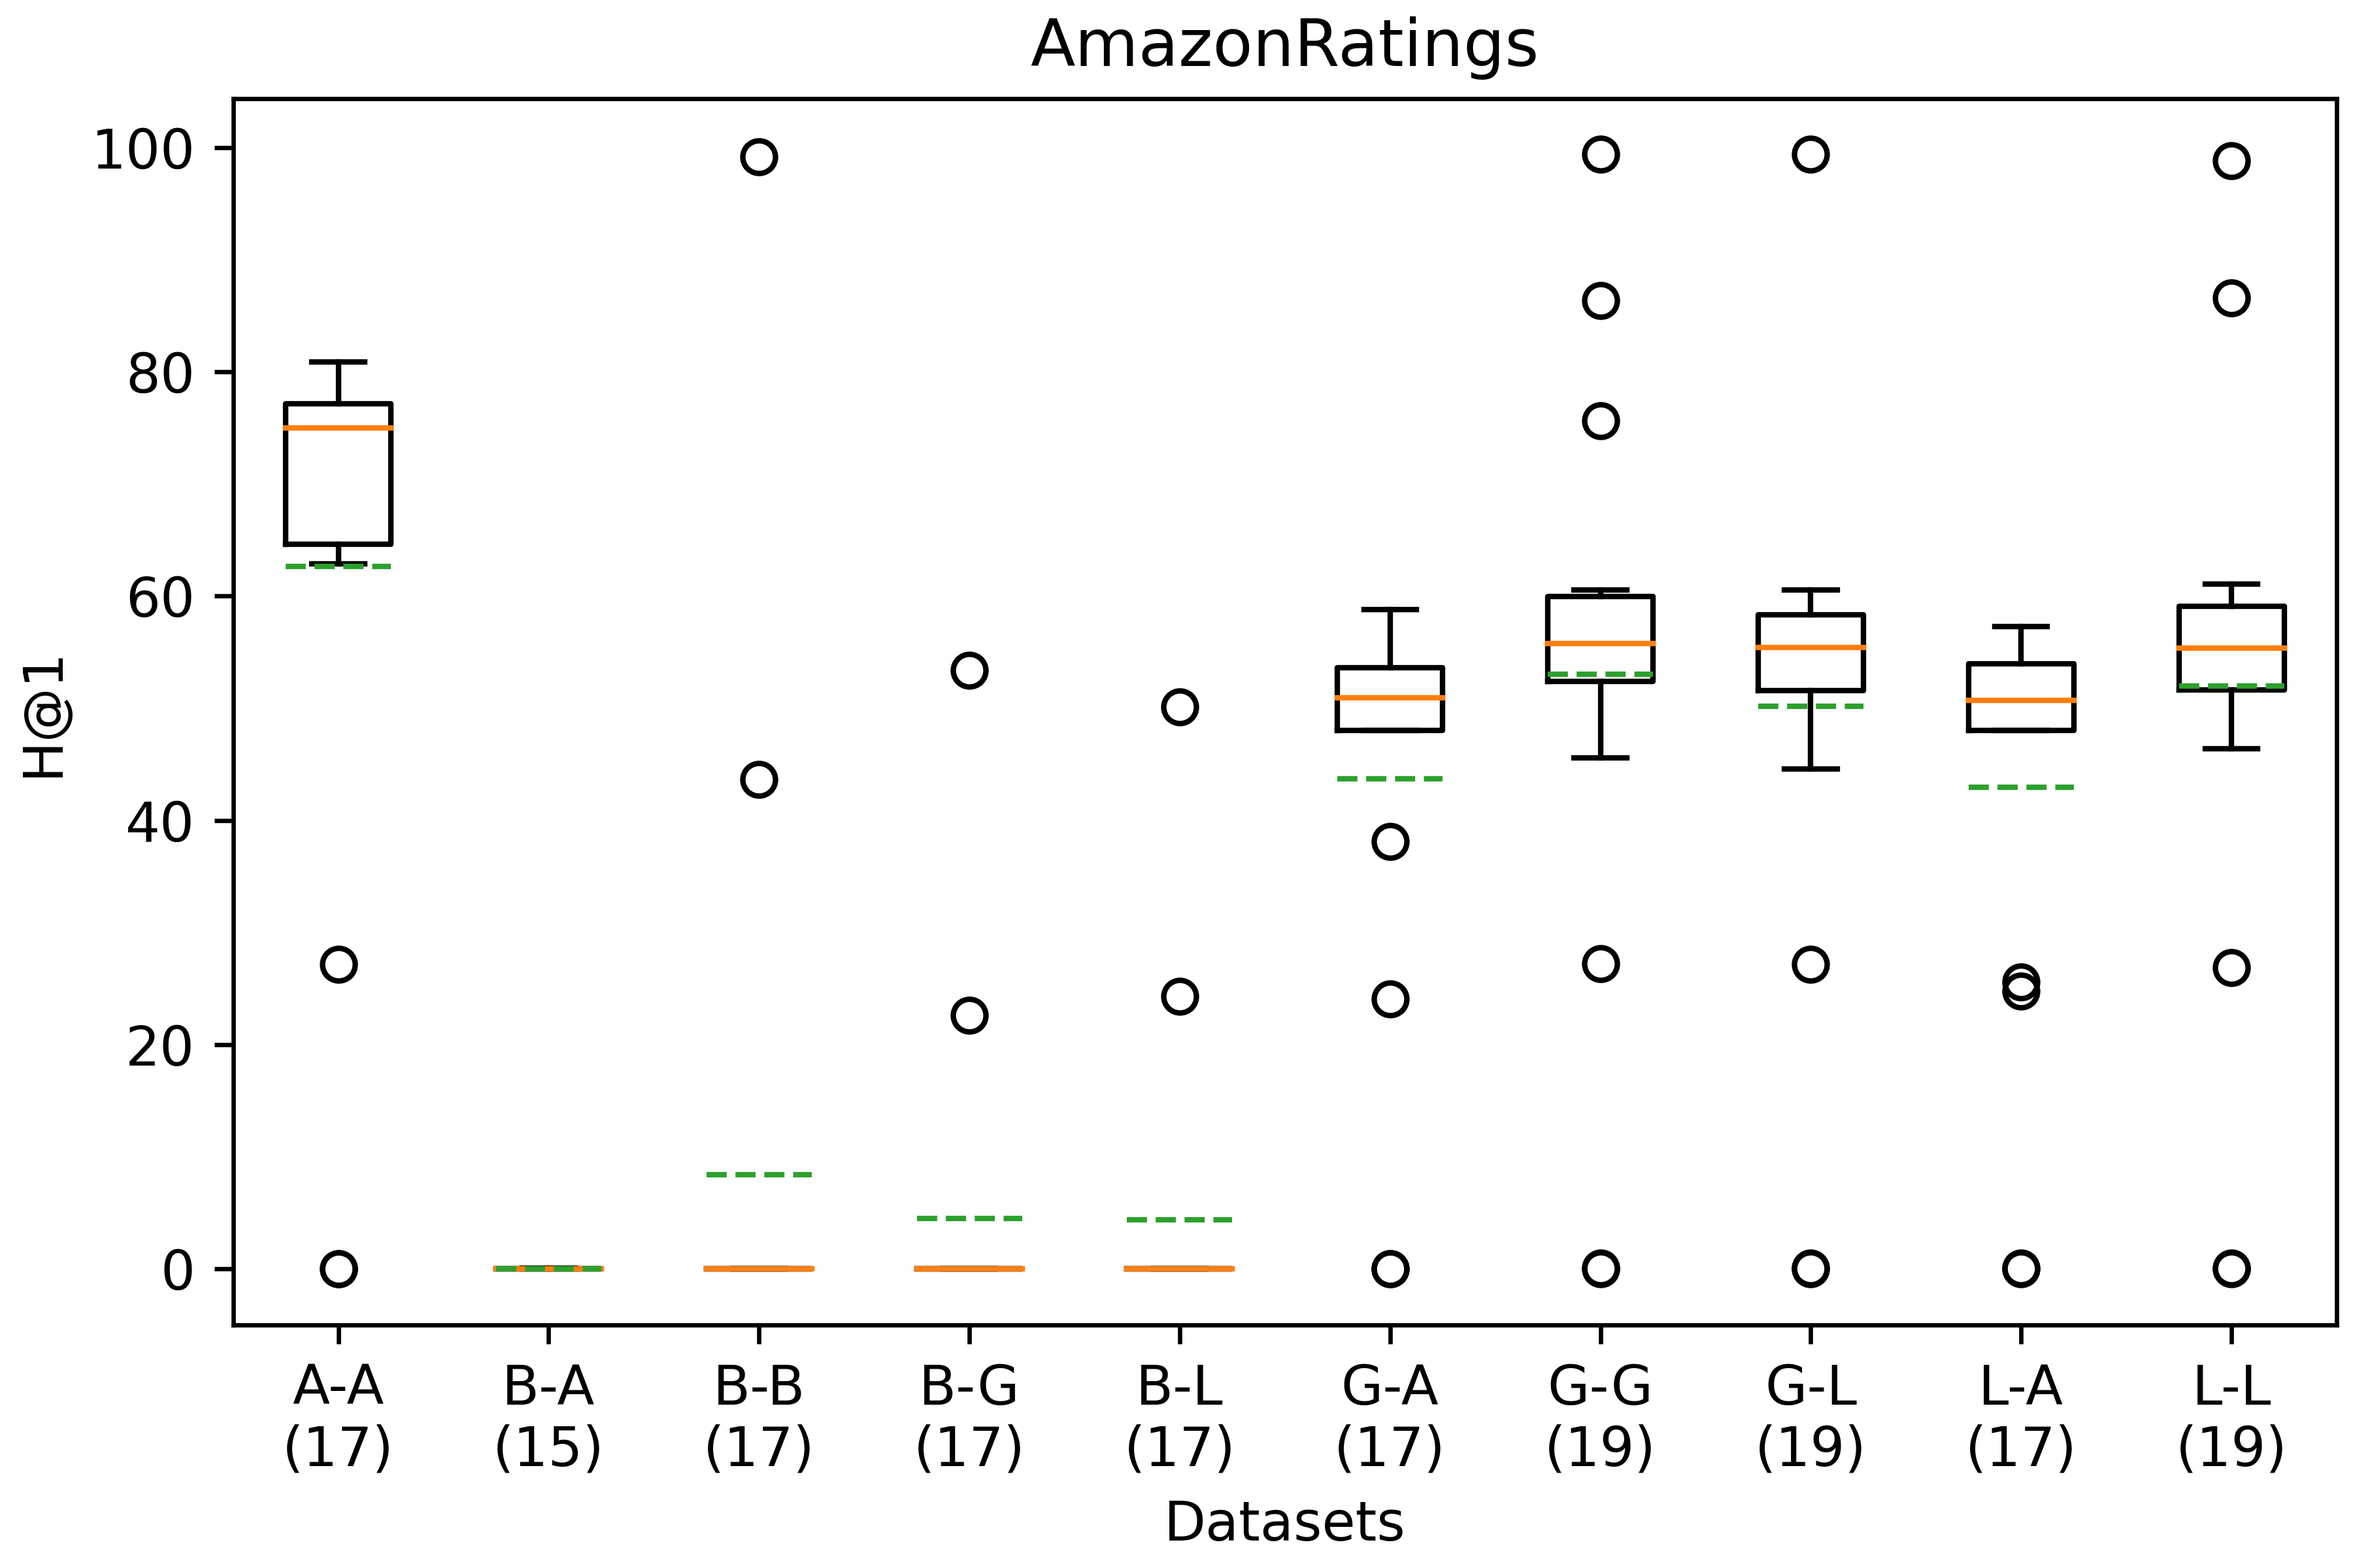
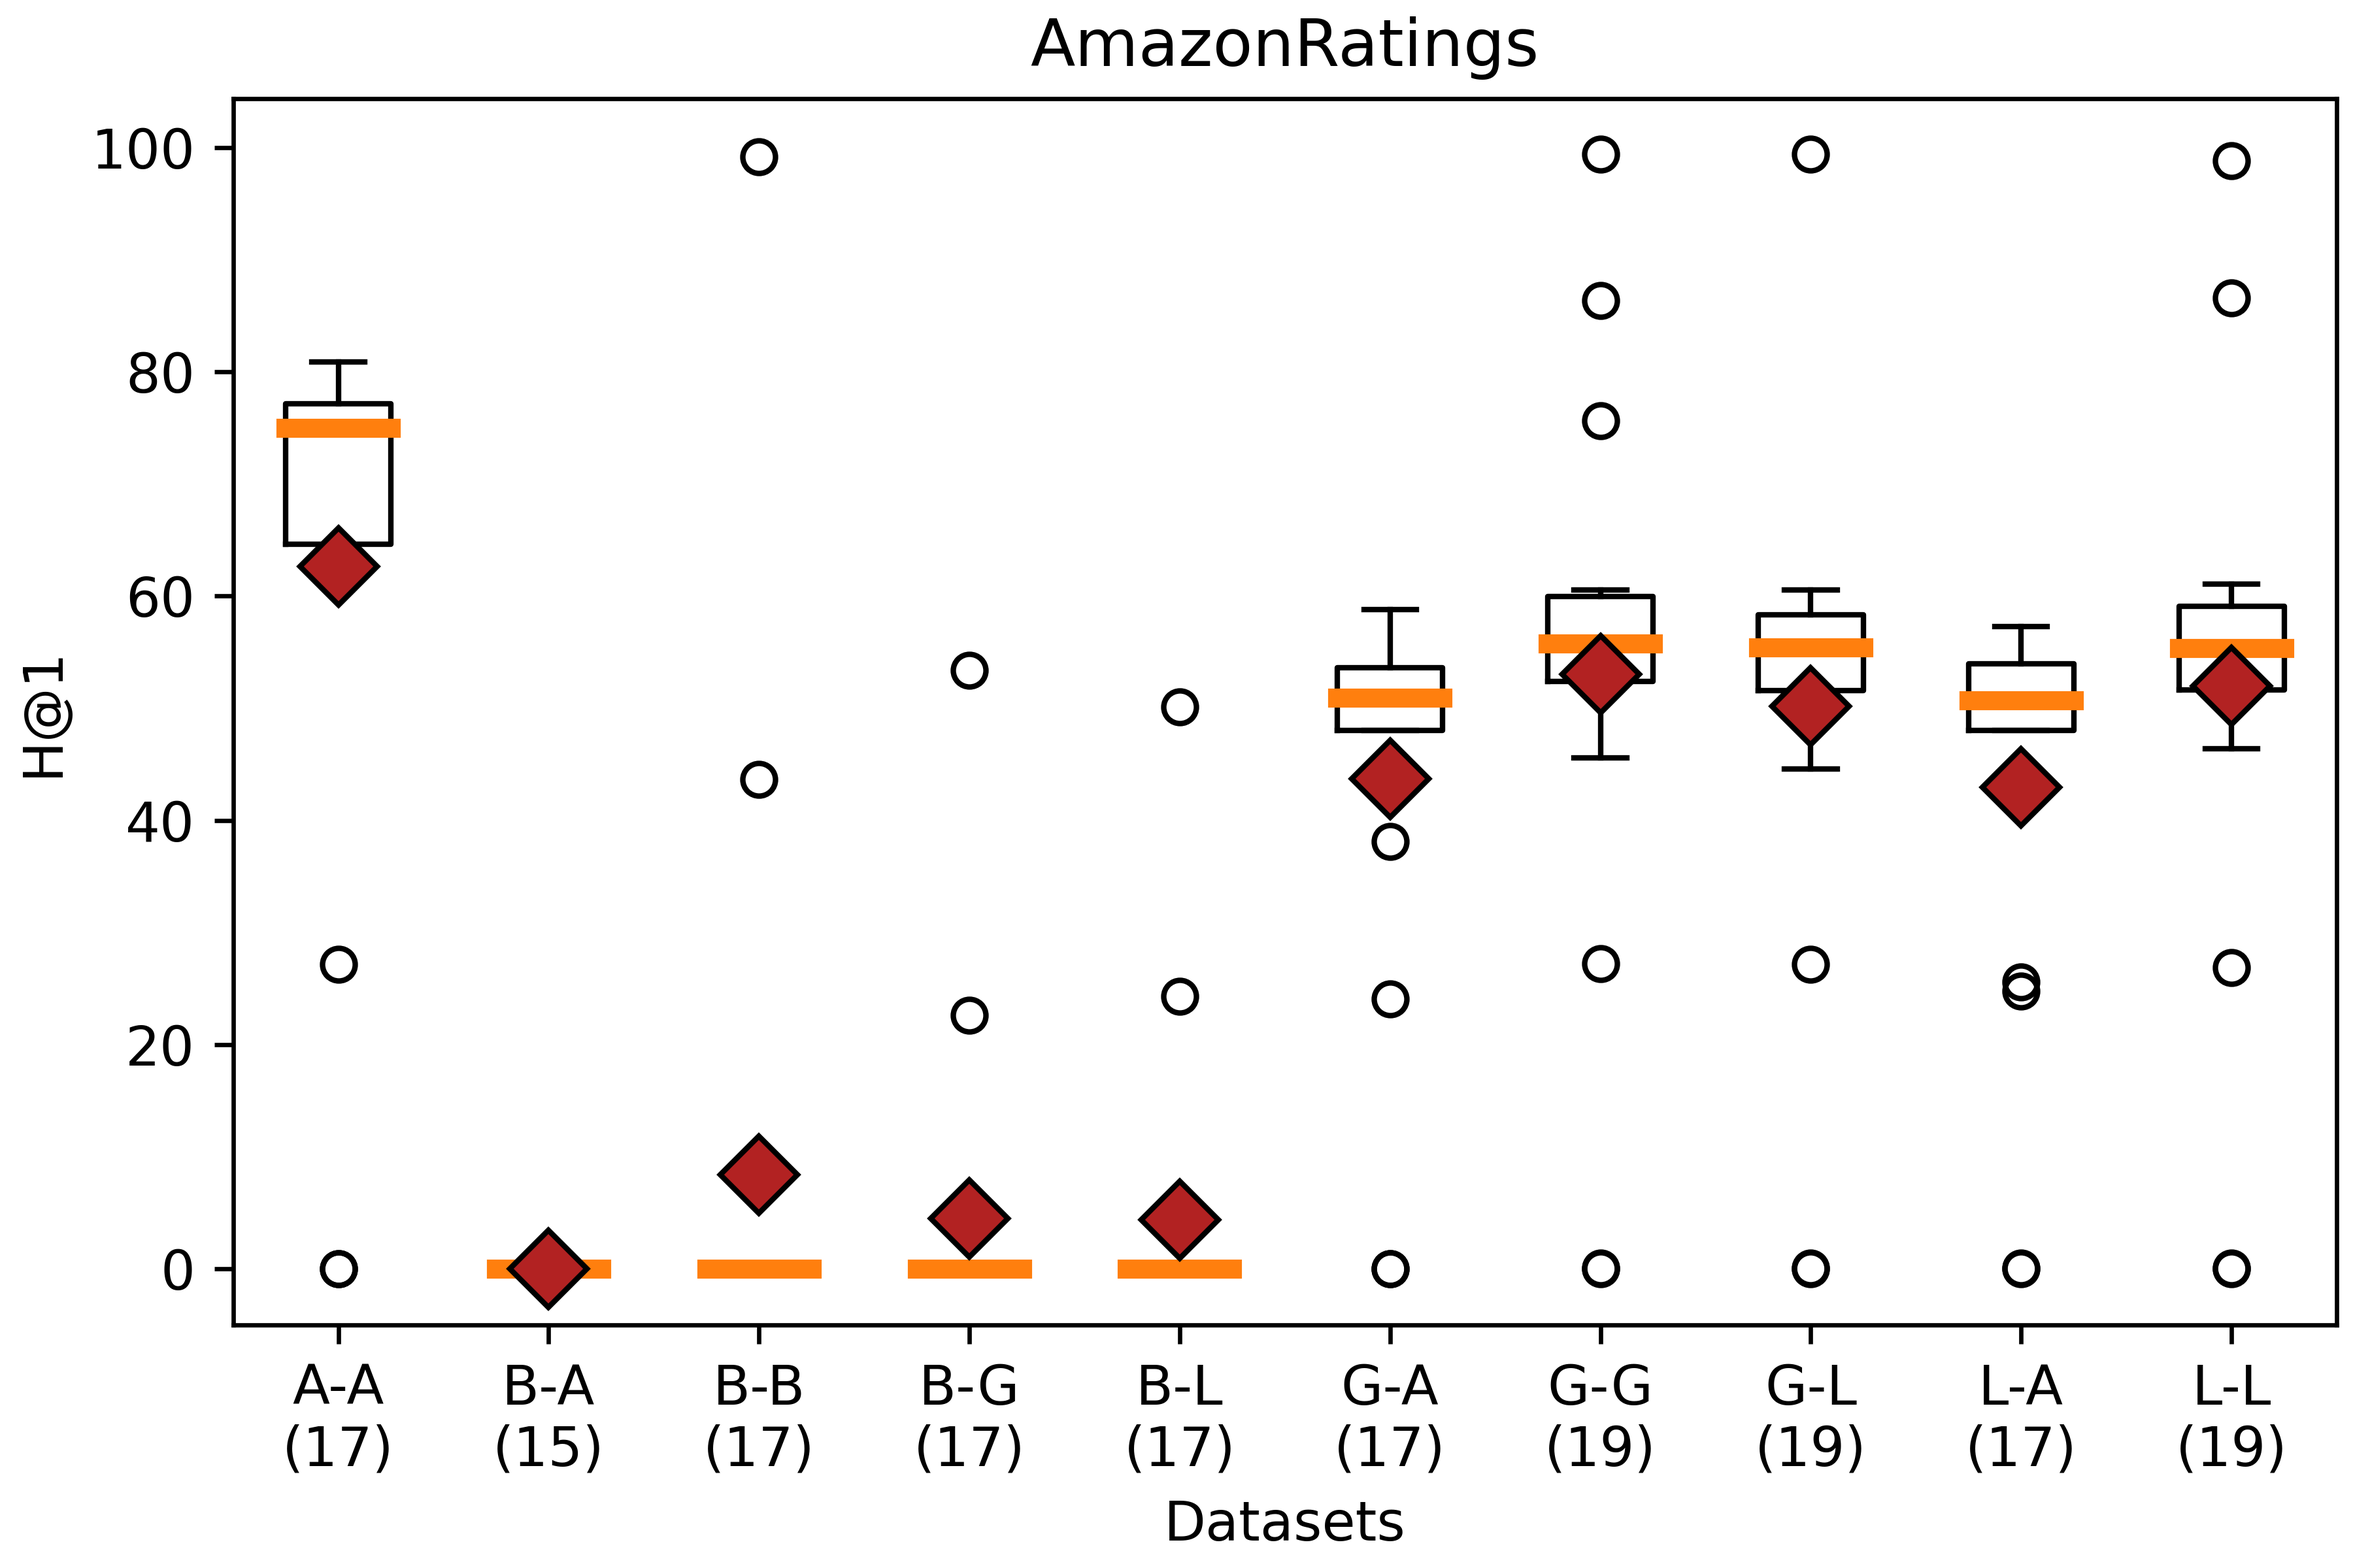
Update Figures AmazonRatings

diff --git a/AmazonRatings/AmazonRatings.md b/AmazonRatings/AmazonRatings.md
@@ -496,18 +496,21 @@
 
 ## Results
 
+<figcaption><strong>Figure Methods Boxplot.</strong> Boxplot of the OpenEA methods according to the Hits@1 metric of the 10 pairwise comparisons of the KGs generated from the Amazon Ratings dataset. The orange solid line represents the median and the red diamond the mean of the experiments that did not lead to an error. The number of experiments without error is shown in brackets next to the name of the method. BootEA-TransH, ConvE, KDCoE and MultiKE are not shown because their error rate is equal to 1 for all datasets.</figcaption>
+
 ![Modules Boxplot Amazon Ratings](./Figures/boxplotApproaches.png "Modules Boxplot Amazon Ratings")
+
+<figcaption><strong>Figure Methods Clustering.</strong> Hierarchical clustering (Ward algorithm) of 25 OpenEA methods according to the 5 metrics for the 10 pairwise comparisons of the KGs generated from the Amazon Ratings dataset.</figcaption>
 
 ![Modules Clusters Amazon Ratings](./Figures/clusterApproaches.png "Modules Clusters Amazon Ratings")
 
+<figcaption><strong>Figure Experiments Boxplot.</strong> Boxplot of the 10 types of pairwise comparison experiments of KGs based on the Hits@1 score obtained by the 25 methods carried out in the Amazon Ratings dataset. The orange solid line represents the median and the red diamond the mean of the experiments that did not lead to an error. The number of modules that did not generate an error is shown in brackets under the name of the experiment represented.</figcaption>
+
 ![Datasets Boxplot Amazon Ratings](./Figures/boxplotDatasetsPairs.png "Datasets Boxplot Amazon Ratings")
 
+<figcaption><strong>Figure Experiments Clustering.</strong> Hierarchical clustering, with method Ward, of the 10 types of pairwise comparison experiments of KG, according to the 5 metrics, with all the values scaled to the range [0,1], of the 25 (at most) OpenEA modules carried out in the Amazon Ratings dataset.</figcaption>
+
 ![Datasets Clusters Amazon Ratings](./Figures/clusterDataset.png "Datasets Clusters Amazon Ratings")
-
-![Datasets Cluster AttrE-BootEA Amazon Ratings](./Figures/clusterDatasetAttBoot.png "Datasets Cluster AttrE-BootEA Amazon Ratings")
-
-![BarChart Comparisons Modules Amazon Ratings](./Figures/barComparison.png "BarChart Comparisons Modules Amazon Ratings")
-
 
 ## Merged methods
 
